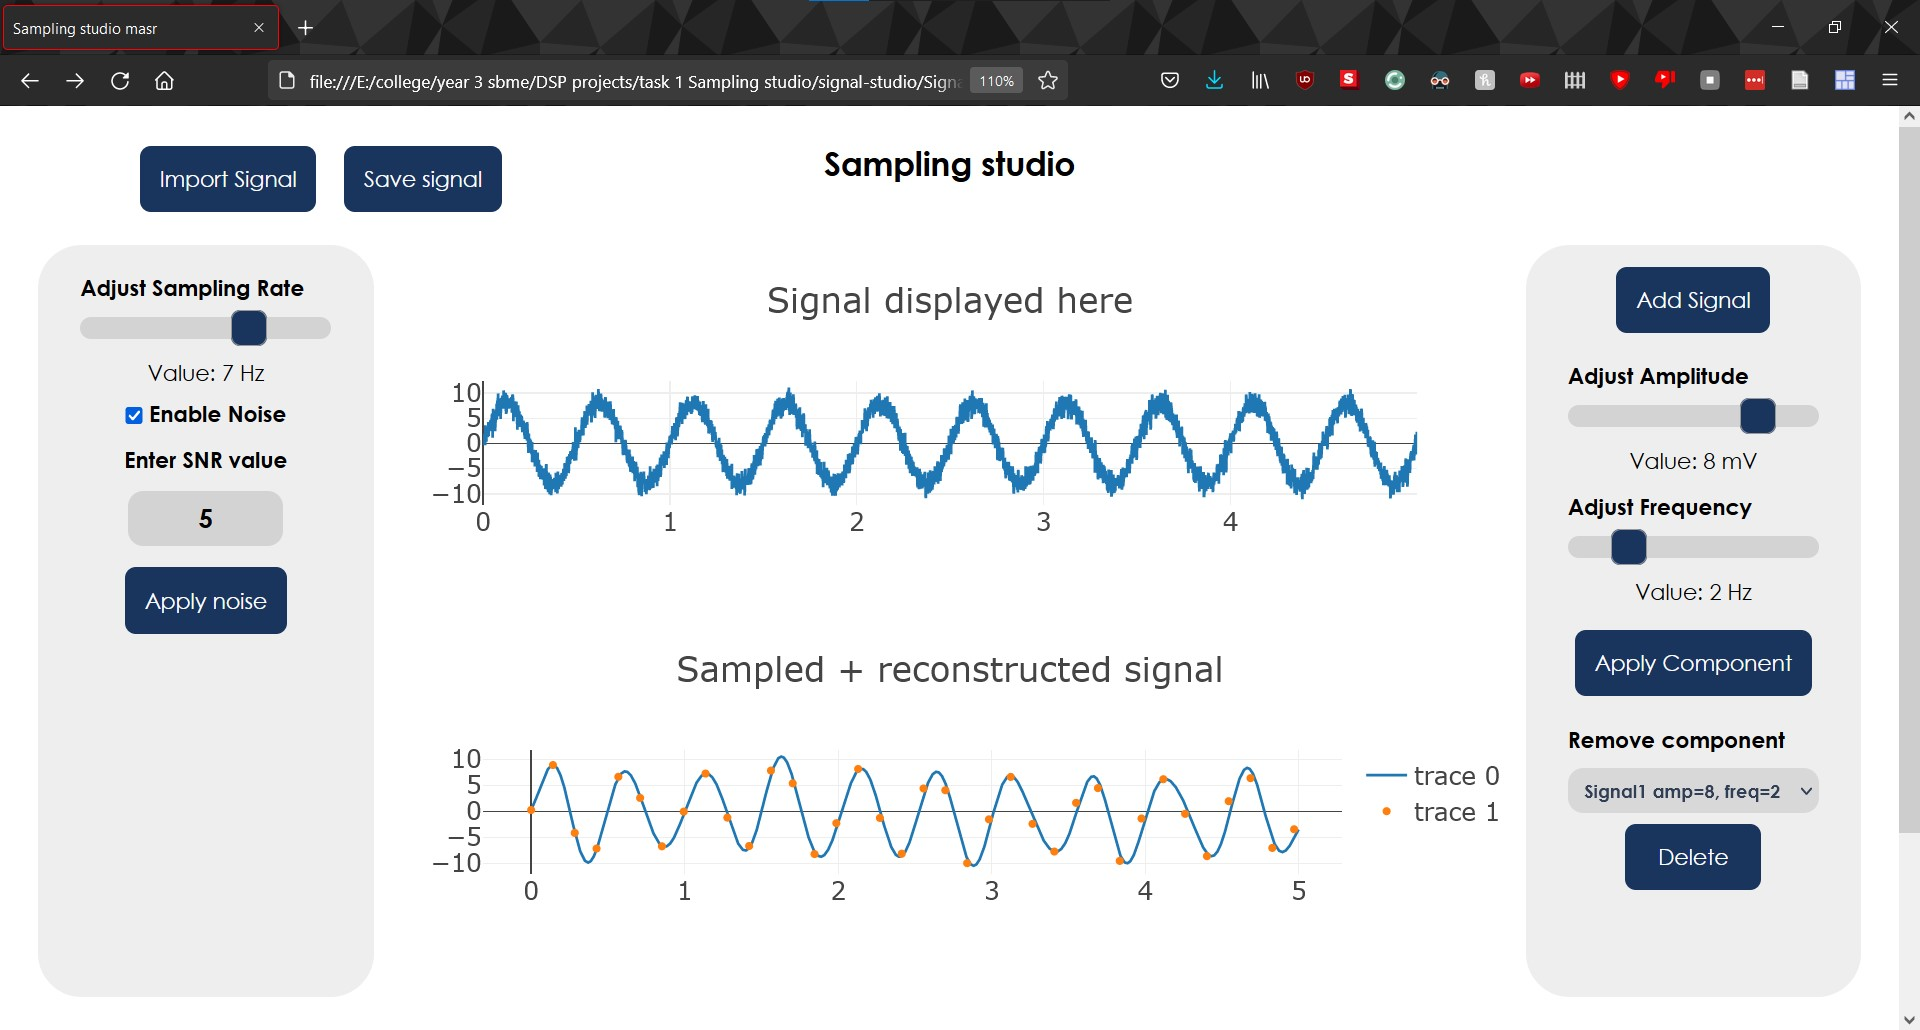
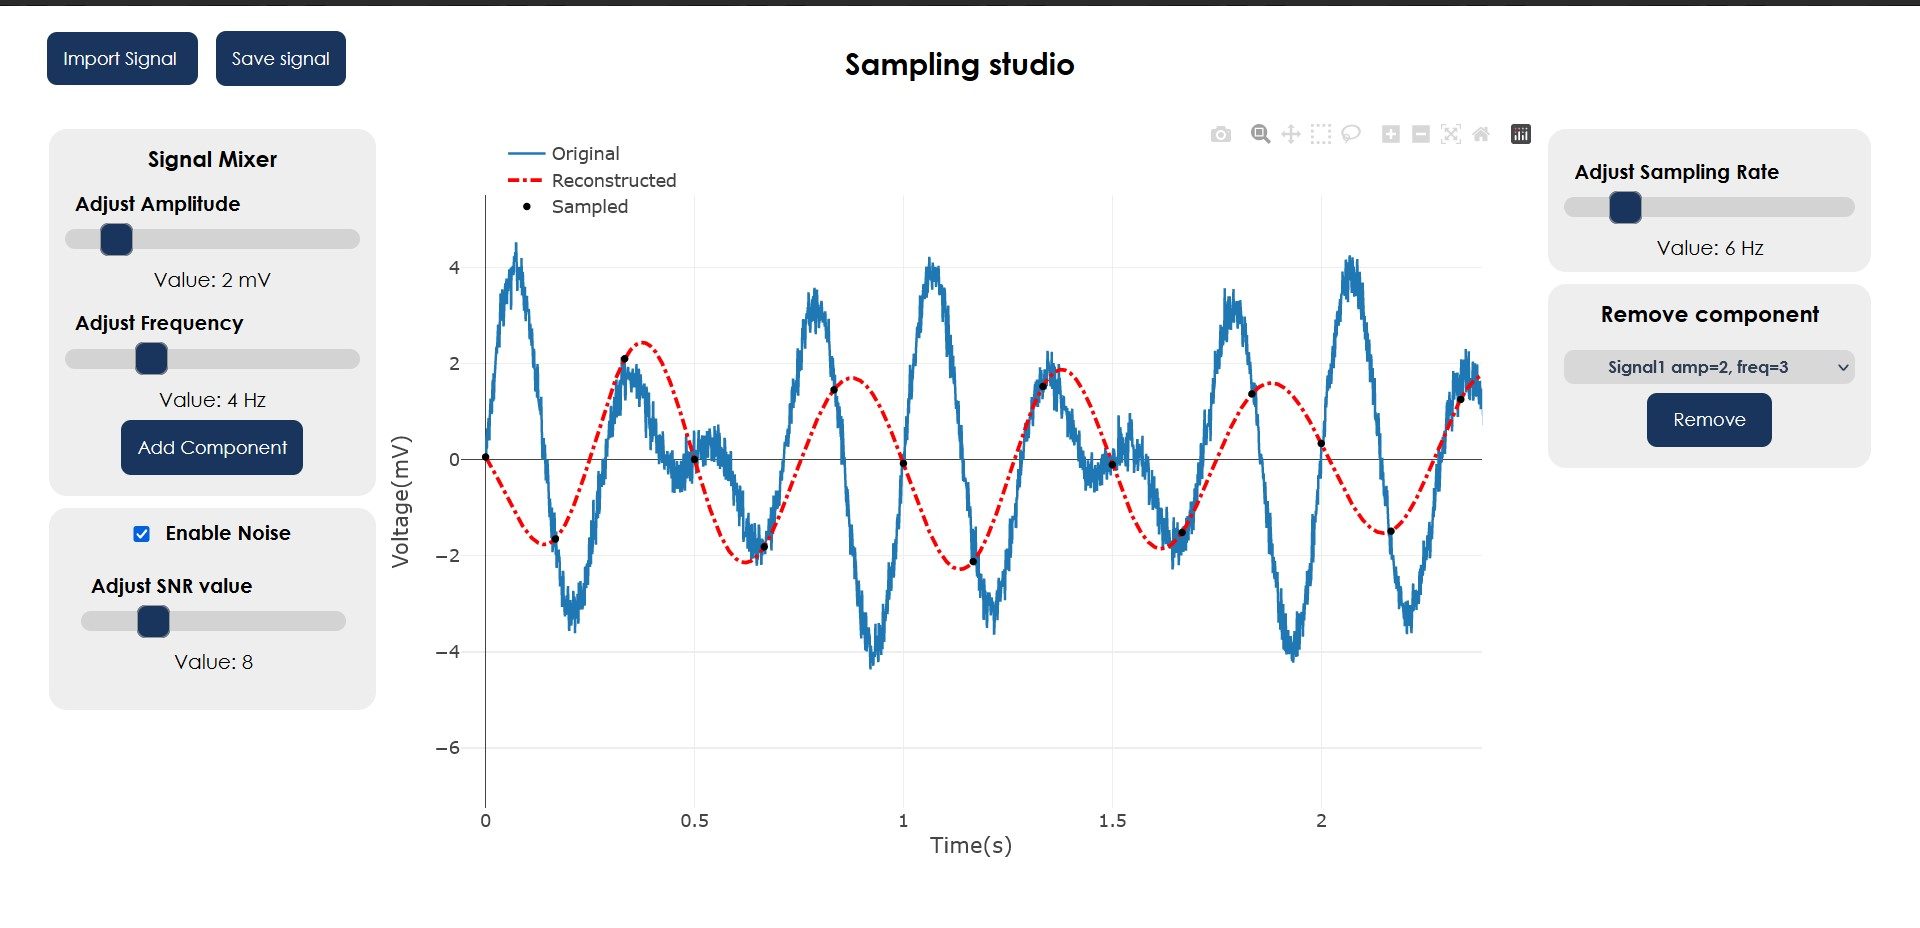
Added features and fixed documentation -Sarta

diff --git a/SignalStudio/static/js/frame_scripts.js b/SignalStudio/static/js/frame_scripts.js
@@ -1,28 +1,31 @@
 let mySignal = new sigProcessing();
-// Script for reloading the data and linking elements
+// Script for loading the data and linking elements
+// Signal mixer section
 var ampSlider = document.getElementById("amp");
 var ampOutput = document.getElementById("ampOutput");
 var freqSlider = document.getElementById("freq");
 var freqOutput = document.getElementById("freqOutput");
+let addSignalBtn = document.getElementById("addSignalBtn");
+ampOutput.innerHTML = ampSlider.value;
+freqOutput.innerHTML = freqSlider.value;
+// Noise section elements
 var noiseToggle = document.getElementById("noiseToggle");
-var snrSlider = document.getElementById("snr");
+var snrSlider = document.getElementById("snrSlider");
 var snrOutput = document.getElementById("snrOutput");
+let SNR = snrSlider.value
+// Sampling section
 var SRSLider = document.getElementById("samplingRate");
 var SROutput = document.getElementById("SROutput");
-let composeBtn = document.getElementById("compose");
-let composeForm = document.getElementById("composerForm");
-let addSignalBtn = document.getElementById("addSignalBtn");
+SROutput.innerHTML = SRSLider.value;
+// Remove comp. section
 let signalsMenue = document.getElementById("addedSignals");
 let deleteSignalBtn = document.getElementById("deleteBtn");
+// Import and save section
 let importBtn = document.getElementById("importSignal");
 let saveBtn = document.getElementById("saveSignal");
 let downloadLink = document.getElementById("download");
-ampOutput.innerHTML = ampSlider.value;
-freqOutput.innerHTML = freqSlider.value;
-SROutput.innerHTML = SRSLider.value;
-let SNR = snrSlider.value
-//intialize the graph element
 
+//intialize the graph element
 Plotly.newPlot(
   "plot1",
   [{ x: [0], y: [0] }],
@@ -71,19 +74,23 @@ snrSlider.oninput = async function () {
   snrOutput.innerHTML = snr;
 };
 
-//function that toggles noise and shows/hides noise section
+// initializing the noise section as disabled
 noiseToggle.checked = false;
-document.getElementById("add-noise-section").style.display = "block";
+document.getElementById("add-noise-section").style.opacity = 0.5;
+//Function for turning noise on/off
 const on_change = () => {
   if (noiseToggle.checked) {
     //show noise section
+    snrSlider.disabled = false; //enable the slider if the chkbox is checked
     SNR = snrSlider.value
     mySignal.generateNoise(SNR);
     mySignal.plotNoisySignal();
     mySignal.sampling(SRSLider.value, mySignal.noisySignal);
-    
+    document.getElementById("add-noise-section").style.opacity = 1;
   } else {
     //code that displays original signal without noise
+    document.getElementById("add-noise-section").style.opacity = 0.5  ;
+    snrSlider.disabled = true; //disable the slider if the box in unchecked
     mySignal.sampling(SRSLider.value);
   }
   mySignal.updateGraph(SRSLider.value);
@@ -101,28 +108,13 @@ snrSlider.addEventListener('mouseup',  () => {
   mySignal.updateGraph(SRSLider.value);}
 });
 
-// let formStatus = false;
-// composeForm.style.display = "block  ";
-// composeBtn.onclick = () => {
-//   if (!formStatus) {
-//     composeForm.style.display = "block";
-//     formStatus = true;
-//   } else {
-//     composeForm.style.display = "none";
-//     formStatus = false;
-//   }
-// }
 addSignalBtn.onclick = async () => {
   mySignal.addSignal(ampSlider.value, freqSlider.value);
   let noiseOn = noiseToggle.checked;
   if (noiseOn) {
     mySignal.generateNoise(SNR);
-    // mySignal.animatePlot("plot1", mySignal.noisySignal);
-    // await mySignal.animatePlot("plot1", mySignal.noisySignal);
     mySignal.sampling(SRSLider.value, mySignal.noisySignal);
   } else {
-    mySignal.animatePlot("plot1", mySignal.data);
-    await mySignal.animatePlot("plot1", mySignal.data);
     mySignal.sampling(SRSLider.value);
   }
   //update the graph

diff --git a/SignalStudio/static/js/processing.js b/SignalStudio/static/js/processing.js
@@ -1,13 +1,13 @@
 class sigProcessing {
   constructor() {
     // Constructor
-    this.data = [{ x: [], y: [], mode: "lines", type: "line" }];
+    this.data = [{ x: [], y: [], mode: "lines",line:{size: 5},  type: "line" }];
     this.freq = 0;
     this.amp = 0;
     this.addedSignalNum = 0;
     this.noisySignal = [{ x: [0], y: [0], mode: "lines", type: "line" }];
-    this.sampledSignal = [{ x: [0], y: [0], mode: "markers", marker:{size:10} }];
-    this.reconSignal = [{ x: [0], y: [0], mode: "lines", line: {dash: 'dashdot', width:3}}];
+    this.sampledSignal = [{ x: [0], y: [0], mode: "markers"}];
+    this.reconSignal = [{ x: [0], y: [0], mode: "lines", line: {dash: 'dashdot', width:3, color:"red"}}];
     this.config = { responsive: true };
     this.time = 5;
     this.step = 0.001;
@@ -71,7 +71,7 @@ class sigProcessing {
     }
 
     this.sampledSignal = [
-      { x: sampledX, y: sampledY, marker:{size:6, color:'black'}, mode: "markers" },
+      { x: sampledX, y: sampledY, marker:{size:8,color:'black'}, mode: "markers" },
     ];
   }
 

diff --git a/SignalStudio/static/css/index.css b/SignalStudio/static/css/index.css
@@ -41,7 +41,6 @@ li {
   min-width: 20%;
   font-size: 1.1rem;
   font-weight: bold;
-  display: block;
   text-align: center;
   margin-top: 0.2rem;
 }
@@ -110,31 +109,8 @@ input[type="file"] {
   height: 79vh;
   /* background-color: #eee; */
 }
-/* #snrValue {
-  width: 53%;
-  margin: auto;
-  margin-top: 0.8rem;
-  margin-bottom: 0.5rem;
-  border: none;
-  padding: 0.5rem;
-  text-align: center;
-  border-radius: 0.7rem;
-  background-color: #d3d3d3;
-  color: black;
-  font-weight: bold;
-  font-size: 1.2rem;
-  -moz-appearance: textfield;
-}
-#snrValue:hover {
-  background-color: #ababab;
-}
-#snrValue:focus {
-  outline: none;
-  border: 0.1rem solid #19345d;
-} */
 .add-noise-section {
-  display: none;
-  margin-top: 0.8rem;
+  display: block;
 }
 .signalframe {
   min-width: 60vw;
@@ -186,7 +162,7 @@ input[type="range"]:focus {
   margin-left: auto;
   margin-right: auto;
   margin-bottom: 0.6rem;
-  margin-top: 0.6rem;
+  /* margin-top: 0.6rem; */
   background-color: #eee;
   padding: 0.6rem 0.8rem;
   border-radius: 0.9rem;

diff --git a/SignalStudio/templates/index.html b/SignalStudio/templates/index.html
@@ -42,11 +42,6 @@
       <div class="mid-section">
         <!-- section to the left of the frame -->
         <div id="left-options" class="left-options">
-          <!-- <button
-          type="button" name="button" id="compose"
-          class="add-noise-btn">
-          Add Signal
-          </button> -->
           <!-- Signal mixer section -->
           <div class="optioncontainer">
             <p class="section-title">Signal Mixer</p>
@@ -98,7 +93,7 @@
                 <p class="leftheader" for="snrValue">Adjust SNR value</p>
                 <input
                   type="range"
-                  id="snr"
+                  id="snrSlider"
                   min="1"
                   max="30"
                   value="5"
@@ -141,7 +136,7 @@
               class="add-noise-btn">
               Remove
             </button>
-          </div>  
+          </div>
         </div>
       </div>
     </div>
